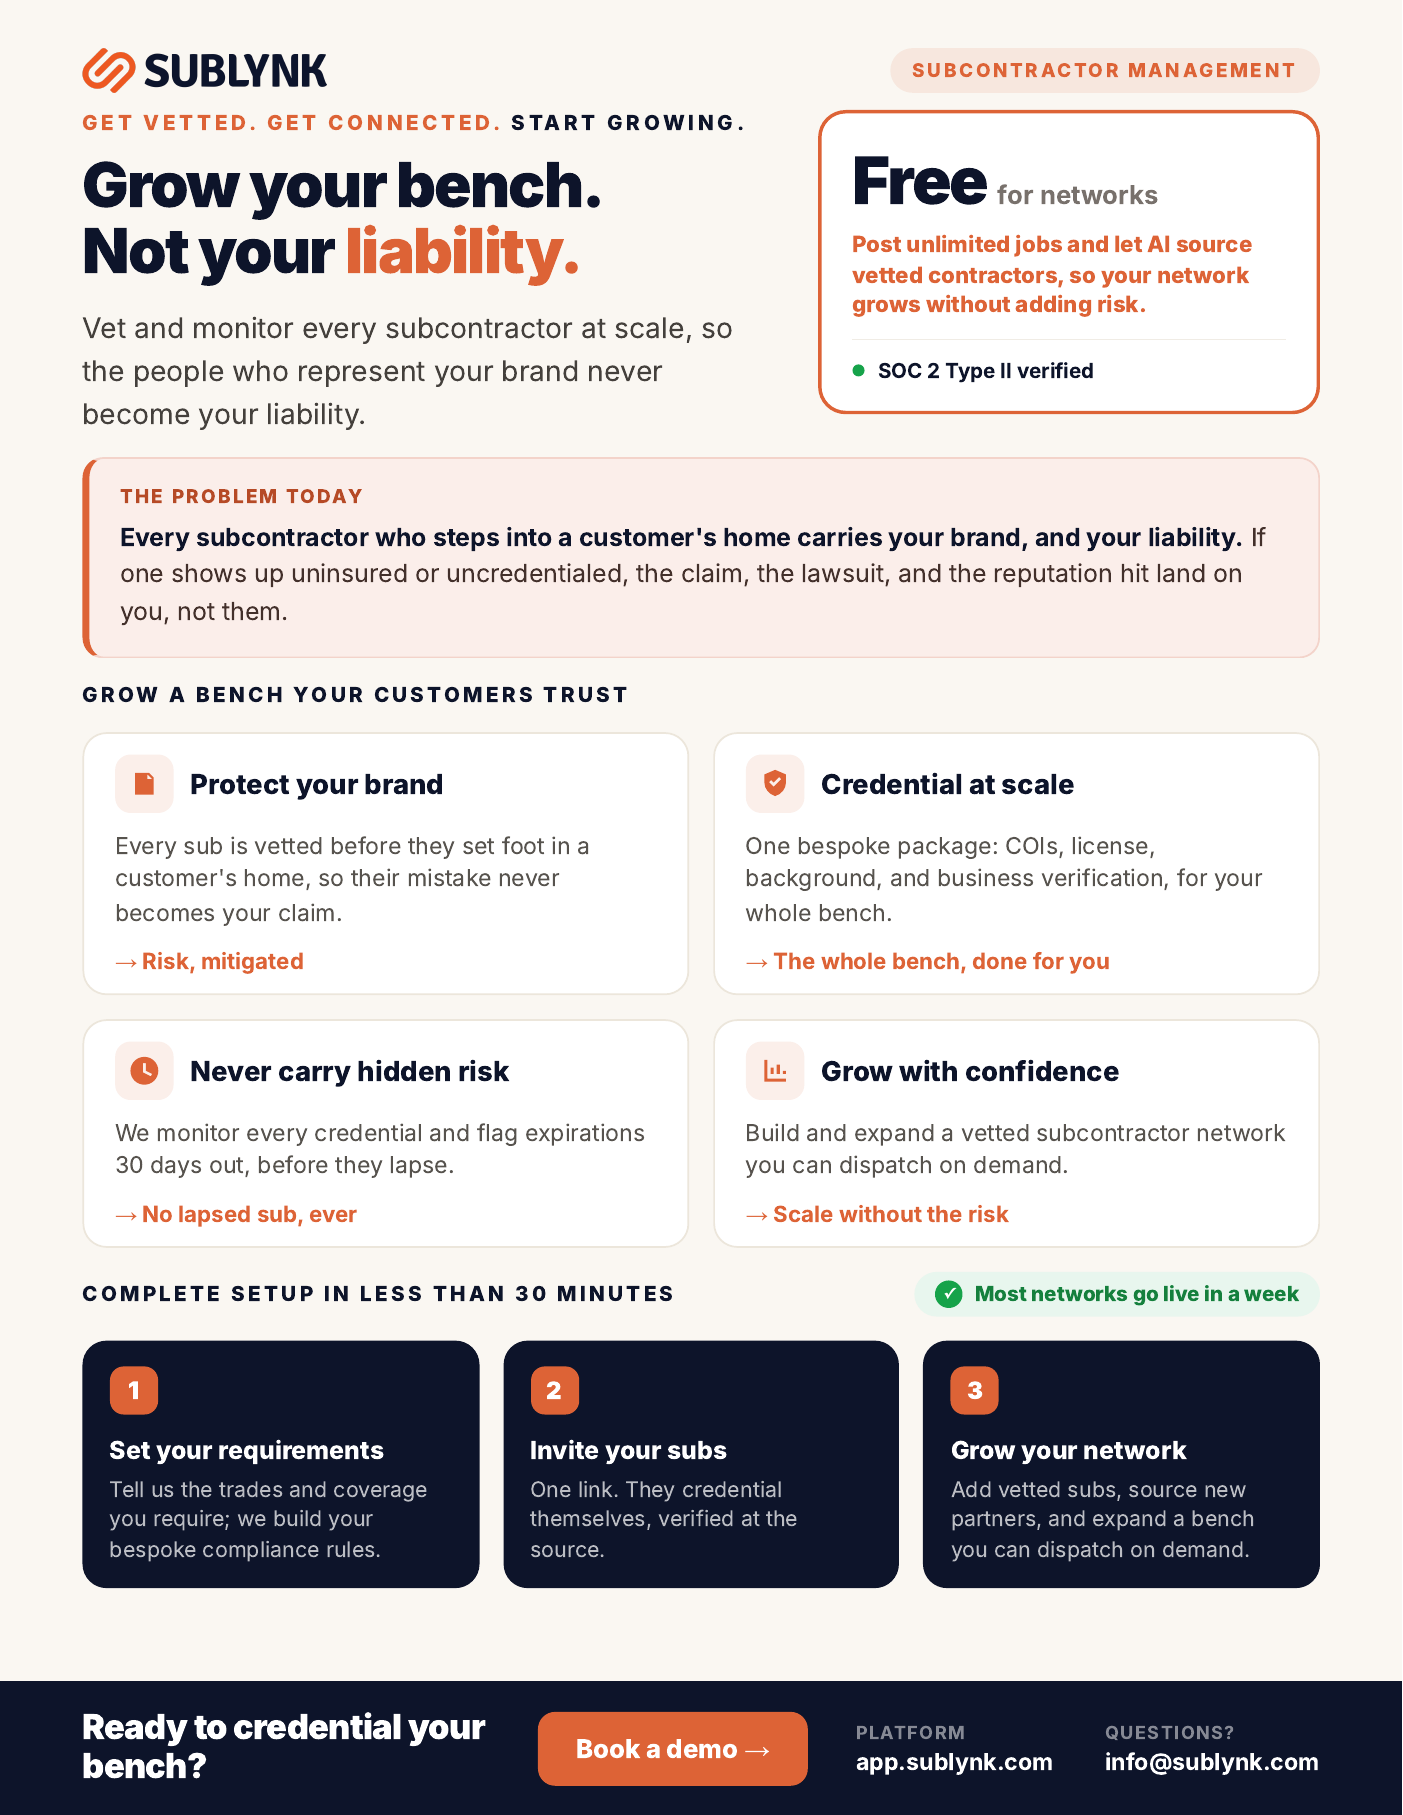
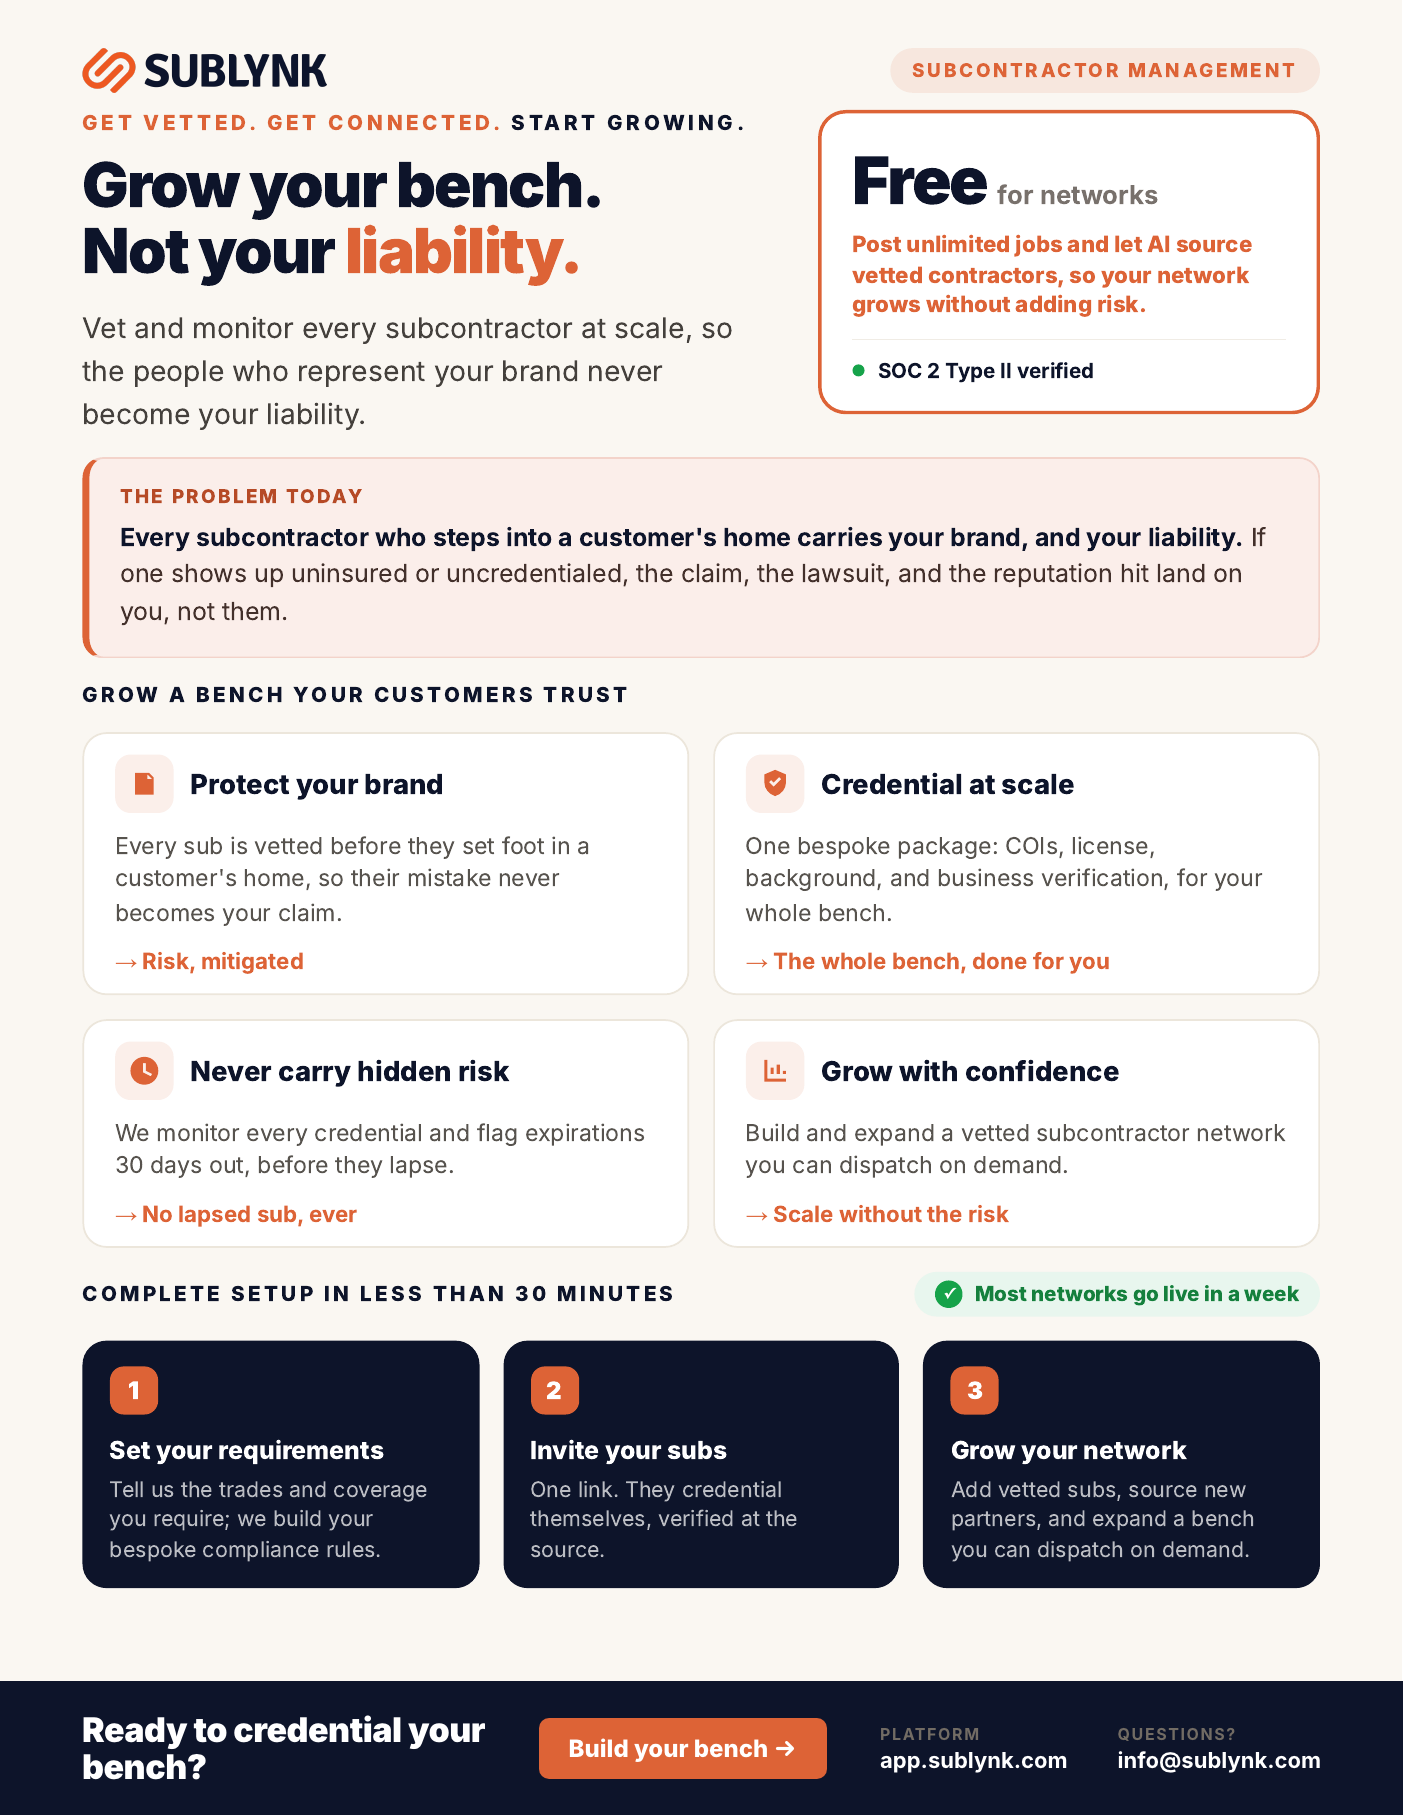
Grow flipbook: clickable footer CTAs (contractor-relevant, same links as franchise)
- Each interior page footer is now a clickable band opening in a new tab:
  Certified -> company profile, Subcontractor -> Job Opportunities (Fortify
  network jobs), Sub-management + Mutual Success -> $500 setup form
- Recomposite pages 02/03 footers so baked-in button matches the destination:
  'Get verified today' -> 'Job Opportunities', 'Book a demo' -> 'Build your bench'.
  Page bodies byte-identical; footer band re-rendered + pixel-aligned to the
  untouched pages (grow/_src/recompose_footers.py)
- guardInteractive: overlay clicks open the link instead of flipping the page

diff --git a/grow/index.html b/grow/index.html
@@ -26,8 +26,10 @@
   .btn:active{transform:translateY(1px)}
   .stage{flex:1 1 auto;display:flex;align-items:center;justify-content:center;min-height:0;padding:4px 16px;position:relative}
   .book-wrap{margin:auto;filter:drop-shadow(0 30px 46px rgba(0,0,0,.55))}
-  #book .page{background:var(--paper);overflow:hidden}
+  #book .page{background:var(--paper);overflow:hidden;position:relative}
   #book .page img{width:100%;height:100%;object-fit:contain;display:block;-webkit-user-drag:none;user-select:none}
+  /* invisible clickable band over the baked-in footer CTA of each interior page */
+  #book .page > .cta-ov{position:absolute;left:0;right:0;bottom:0;height:8%;z-index:6;cursor:pointer;display:block}
   /* covers (higher specificity than #book .page so the gradient wins) */
   /* container-type lets cover type scale with the PAGE width (cqw), not the viewport,
      so nothing overflows/overlaps at any book size. */
@@ -86,10 +88,10 @@
         </div>
         <div class="bottom"><div class="wm">Sublynk<span class="dot">.</span></div><div class="foot">Flip →</div></div>
       </div>
-      <div class="page"><img src="pages/01-certified.png" alt="Sublynk Certified one-pager"></div>
-      <div class="page"><img src="pages/02-subcontractor.png" alt="Subcontractor program one-pager"></div>
-      <div class="page"><img src="pages/03-submanagement.png" alt="Sub-management one-pager"></div>
-      <div class="page"><img src="pages/04-mutual-success.png" alt="Mutual Success Plan - Bench"></div>
+      <div class="page"><img src="pages/01-certified.png" alt="Sublynk Certified one-pager"><a class="cta-ov" href="https://app.sublynk.com/dashboard/company-profile/sublynk-certified" target="_blank" rel="noopener" aria-label="Get Sublynk Certified"></a></div>
+      <div class="page"><img src="pages/02-subcontractor.png" alt="Subcontractor program one-pager"><a class="cta-ov" href="https://app.sublynk.com/jobs/network/fortify-subcontractor-network" target="_blank" rel="noopener" aria-label="See job opportunities"></a></div>
+      <div class="page"><img src="pages/03-submanagement.png" alt="Sub-management one-pager"><a class="cta-ov" href="https://joinsublynk.com/setup/" target="_blank" rel="noopener" aria-label="Build your bench"></a></div>
+      <div class="page"><img src="pages/04-mutual-success.png" alt="Mutual Success Plan - Bench"><a class="cta-ov" href="https://joinsublynk.com/setup/" target="_blank" rel="noopener" aria-label="Start the launch"></a></div>
       <div class="page cover back" data-density="hard">
         <div class="top">
           <img class="logo" src="assets/sublynk-logo-white.png" alt="Sublynk">
@@ -181,7 +183,8 @@
     function guardInteractive(e){
       var chk  = e.target && e.target.closest && e.target.closest('.steps .chk');
       var link = e.target && e.target.closest && e.target.closest('.steps a');
-      if (!chk && !link) return;                 // normal page area -> let the engine flip
+      var cta  = e.target && e.target.closest && e.target.closest('.cta-ov');
+      if (!chk && !link && !cta) return;         // normal page area -> let the engine flip
       e.stopPropagation();
       if (e.type === 'click' && chk){            // toggle the step on the real click
         e.preventDefault();

diff --git a/grow/_src/recompose_footers.py b/grow/_src/recompose_footers.py
@@ -1,0 +1,77 @@
+# -*- coding: utf-8 -*-
+# Recomposite ONLY the navy footer band on the /grow contractor flipbook pages,
+# so the baked-in CTA button matches the new clickable destination in index.html.
+# Page bodies are left byte-identical; we overwrite just the bottom navy band.
+#
+# Footer CSS is copied verbatim from grow-franchise/_src/build_pages.py (same layout
+# engine the grow pages were built with). We force the band to its measured height and
+# rely on flex `align-items:center` so the left headline + right columns overlay exactly;
+# only the middle button label (and its width) changes.
+import os, subprocess, tempfile
+from PIL import Image
+
+ROOT = os.path.dirname(os.path.dirname(os.path.abspath(__file__)))   # .../grow
+PAGES = os.path.join(ROOT, "pages")
+CHROME = "/Applications/Google Chrome.app/Contents/MacOS/Google Chrome"
+LOGO_DARK = "file:///Users/jobs/Desktop/sublynk/demo/sublynk-color.png"
+
+CSS = """
+@import url('https://fonts.googleapis.com/css2?family=Inter:wght@400;500;600;700;800;900&display=swap');
+*{margin:0;padding:0;box-sizing:border-box;-webkit-print-color-adjust:exact!important;print-color-adjust:exact!important}
+:root{--navy:#0d142a;--orange:#dd6336;--muted:#726c64}
+html,body{width:1403px;font-family:'Inter',-apple-system,BlinkMacSystemFont,'Segoe UI',sans-serif;background:var(--navy);-webkit-font-smoothing:antialiased}
+.footer{background:var(--navy);padding:26px 82px;display:flex;align-items:center;justify-content:space-between;gap:24px;width:1403px}
+.fcta{font-size:34px;font-weight:900;color:#fff;line-height:1.1;letter-spacing:-.5px;flex-shrink:0}
+.fright{display:flex;align-items:center;gap:50px;flex-shrink:0}
+.fbtn{flex-shrink:0}
+.flink strong{display:block;font-size:16px;text-transform:uppercase;letter-spacing:.1em;color:var(--muted);margin-bottom:3px}
+.flink span{font-size:22px;font-weight:700;color:#fff}
+.fbtn{background:var(--orange);color:#fff;font-size:24px;font-weight:800;padding:16px 30px;border-radius:10px;white-space:nowrap}
+"""
+
+def band_html(fcta, fbtn, h, questions_label="Questions?"):
+    return f"""<!doctype html><html lang="en"><head><meta charset="utf-8"><style>{CSS}
+    html,body{{height:{h}px}} .footer{{height:{h}px}}</style></head>
+<body><div class="footer"><div class="fcta">{fcta}</div>
+  <a class="fbtn">{fbtn}</a>
+  <div class="fright">
+    <div class="flink"><strong>Platform</strong><span>app.sublynk.com</span></div>
+    <div class="flink"><strong>{questions_label}</strong><span>info@sublynk.com</span></div>
+  </div>
+</div></body></html>"""
+
+def navy(px): r,g,b=px[:3]; return r<40 and g<48 and b<85
+GUT=[6,30,60,1340,1370,1396]
+def band_top(im):
+    w,h=im.size; px=im.load(); top=h
+    for y in range(h-1,-1,-1):
+        if all(navy(px[x,y]) for x in GUT): top=y
+        else: break
+    return top
+
+def render_band(html, w, h):
+    with tempfile.TemporaryDirectory() as td:
+        hp=os.path.join(td,"b.html"); op=os.path.join(td,"b.png")
+        open(hp,"w",encoding="utf-8").write(html)
+        subprocess.run([CHROME,"--headless=new","--disable-gpu","--hide-scrollbars",
+            f"--screenshot={op}",f"--window-size={w},{h}","--force-device-scale-factor=1",
+            "--default-background-color=0d142aff","file://"+hp],
+            check=True, stdout=subprocess.DEVNULL, stderr=subprocess.DEVNULL)
+        return Image.open(op).convert("RGB").copy()
+
+# page file -> (fcta, fbtn)
+JOBS = [
+ ("02-subcontractor.png", "Ready to get to<br>work?",            "Job Opportunities &rarr;"),
+ ("03-submanagement.png", "Ready to credential your<br>bench?",  "Build your bench &rarr;"),
+]
+
+for fname, fcta, fbtn in JOBS:
+    fp=os.path.join(PAGES,fname)
+    im=Image.open(fp).convert("RGB"); w,h=im.size
+    top=band_top(im); H=h-top
+    band=render_band(band_html(fcta,fbtn,H), w, H)
+    if band.size!=(w,H): band=band.resize((w,H))
+    im.paste(band,(0,top))
+    im.save(fp)
+    print(f"{fname}: recomposited band [{top},{h}] H={H}  btn='{fbtn}'")
+print("done")
